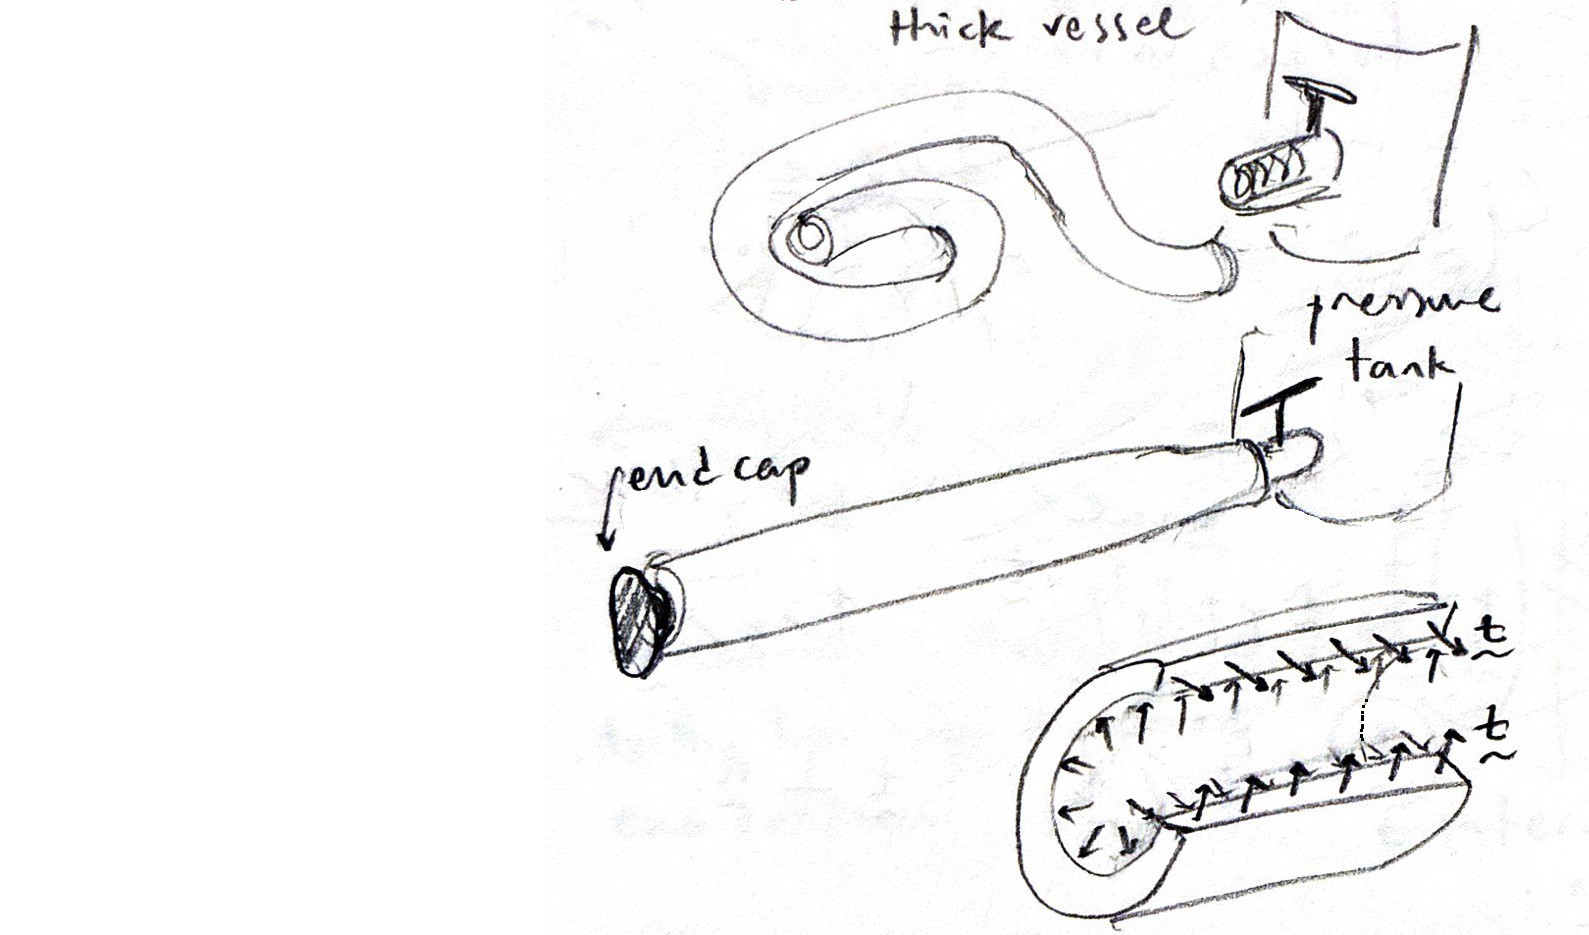
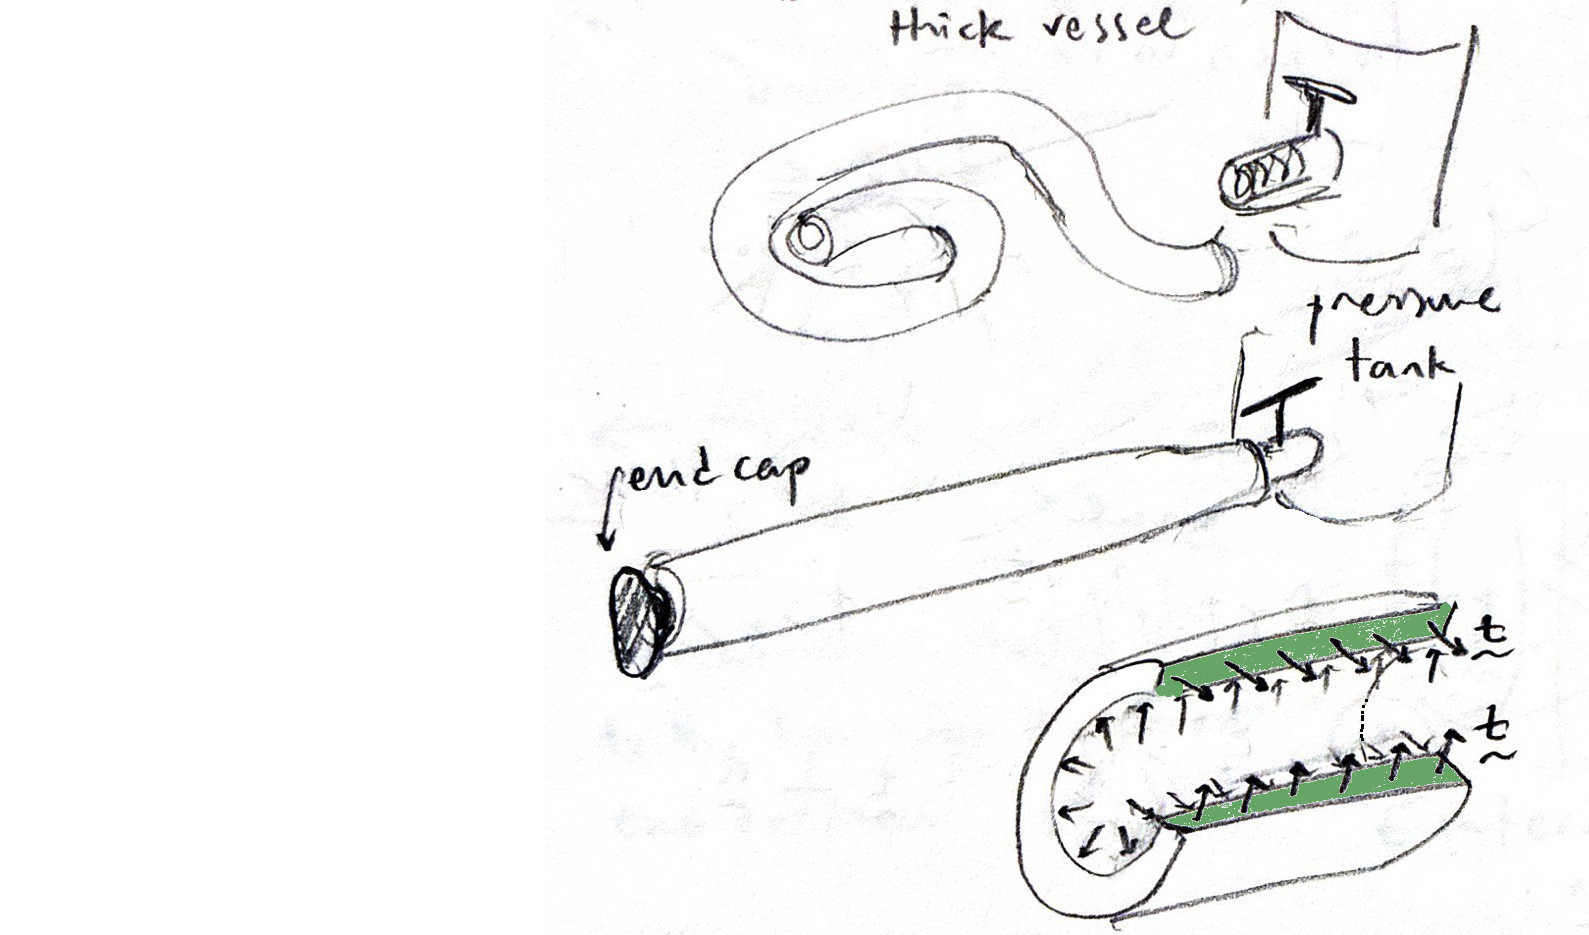
yet more minor changes, vessel figure coloring

Changed region(s): [[0.7093, 0.6513, 0.9251, 0.7444], [0.7709, 0.8064, 0.9251, 0.8684], [0.7401, 0.8684, 0.7709, 0.8995]]

diff --git a/lecture-slides/U3-mass-force.html b/lecture-slides/U3-mass-force.html
@@ -36,18 +36,18 @@
 <h2>Table of Contents</h2>
 <div id="text-table-of-contents" role="doc-toc">
 <ul>
-<li><a href="#/slide-orgd67deb8">(\(\S 3.1\)) Continuum Bodies (Session 9)</a></li>
-<li><a href="#/slide-org1eb7b07">(\(\S 3.3.2\)) Surface Forces (Session 10)</a></li>
-<li><a href="#/slide-org107cddd">(\(\S 3.3.3\)) The Stress Tensor (Session 11)</a></li>
+<li><a href="#/slide-org782a3f1">(\(\S 3.1\)) Continuum Bodies (Session 9)</a></li>
+<li><a href="#/slide-orgc6c1109">(\(\S 3.3.2\)) Surface Forces (Session 10)</a></li>
+<li><a href="#/slide-orgb2fa187">(\(\S 3.3.3\)) The Stress Tensor (Session 11)</a></li>
 </ul>
 </div>
 </div>
 </section>
 <section>
-<section id="slide-orgd67deb8">
-<h2 id="orgd67deb8">(\(\S 3.1\)) Continuum Bodies (Session 9)</h2>
+<section id="slide-org782a3f1">
+<h2 id="org782a3f1">(\(\S 3.1\)) Continuum Bodies (Session 9)</h2>
 
-<div id="org55f3f78" class="figure">
+<div id="org6f04b4e" class="figure">
 <p><img src="../images/Continuum_body.svg" alt="Continuum_body.svg" class="org-svg" width="600px" />
 </p>
 </div>
@@ -60,10 +60,10 @@
 
 </ul>
 </section>
-<section id="slide-org4b863e8">
-<h3 id="org4b863e8">(\(\S 3.2\)) Volume and Mass</h3>
+<section id="slide-orgc1a8f77">
+<h3 id="orgc1a8f77">(\(\S 3.2\)) Volume and Mass</h3>
 
-<div id="orgf2f88f6" class="figure">
+<div id="org1fcb51d" class="figure">
 <p><img src="../images/Continuum_body.svg" alt="Continuum_body.svg" class="org-svg" width="300px" />
 </p>
 </div>
@@ -74,10 +74,10 @@
 
 </ul>
 </section>
-<section id="slide-org0a34736">
-<h4 id="org0a34736">(\(\S 3.2.2\)) Centers of Volume and Mass</h4>
+<section id="slide-org4fb59d1">
+<h4 id="org4fb59d1">(\(\S 3.2.2\)) Centers of Volume and Mass</h4>
 
-<div id="orge66d44d" class="figure">
+<div id="orgbab71ad" class="figure">
 <p><img src="../images/Continuum_body.svg" alt="Continuum_body.svg" class="org-svg" width="300px" />
 </p>
 </div>
@@ -89,12 +89,12 @@
 </ul>
 
 </section>
-<section id="slide-org0a34736-split">
+<section id="slide-org4fb59d1-split">
 </section>
-<section id="slide-org92bfa82">
-<h3 id="org92bfa82">(\(\S 3.3\)) Body Forces</h3>
+<section id="slide-org1e52cee">
+<h3 id="org1e52cee">(\(\S 3.3\)) Body Forces</h3>
 
-<div id="orgeef5e41" class="figure">
+<div id="org7d3fd55" class="figure">
 <p><img src="../images/forces_in_nature.jpg" alt="forces_in_nature.jpg" width="1200px" />
 </p>
 </div>
@@ -103,10 +103,10 @@
 
 </ul>
 </section>
-<section id="slide-org712139e">
-<h4 id="org712139e">(\(\S 3.3.1\))  Body Forces and their Resultants (Integrals)</h4>
+<section id="slide-org283a7ef">
+<h4 id="org283a7ef">(\(\S 3.3.1\))  Body Forces and their Resultants (Integrals)</h4>
 
-<div id="orga0622ba" class="figure">
+<div id="org3596a2d" class="figure">
 <p><img src="../images/traction_bodyIntegrals.jpg" alt="traction_bodyIntegrals.jpg" width="360px" />
 </p>
 </div>
@@ -119,8 +119,8 @@
 
 </ul>
 </section>
-<section id="slide-orgde1c4db">
-<h3 id="orgde1c4db">Questions for next session</h3>
+<section id="slide-org874d02a">
+<h3 id="org874d02a">Questions for next session</h3>
 <p>
 Ask AI:
 </p>
@@ -129,8 +129,8 @@ Ask AI:
 
 </ul>
 </section>
-<section id="slide-org930e7d5">
-<h3 id="org930e7d5">Deliverables</h3>
+<section id="slide-org16bf7de">
+<h3 id="org16bf7de">Deliverables</h3>
 <p>
 Students should be able to:
 </p>
@@ -141,10 +141,10 @@ Students should be able to:
 </section>
 </section>
 <section>
-<section id="slide-org1eb7b07">
-<h2 id="org1eb7b07">(\(\S 3.3.2\)) Surface Forces (Session 10)</h2>
+<section id="slide-orgc6c1109">
+<h2 id="orgc6c1109">(\(\S 3.3.2\)) Surface Forces (Session 10)</h2>
 
-<div id="org94a7d52" class="figure">
+<div id="org7be915f" class="figure">
 <p><img src="../images/traction_glued.jpg" alt="traction_glued.jpg" width="1200 px" />
 </p>
 </div>
@@ -154,10 +154,10 @@ Students should be able to:
 
 </ul>
 </section>
-<section id="slide-org2b6c5ca">
-<h3 id="org2b6c5ca">Definitions</h3>
+<section id="slide-orgd10f0d1">
+<h3 id="orgd10f0d1">Definitions</h3>
 
-<div id="orgd680f19" class="figure">
+<div id="org74401c6" class="figure">
 <p><img src="../images/traction_definitions.jpg" alt="traction_definitions.jpg" width="1400 px" />
 </p>
 </div>
@@ -170,10 +170,10 @@ Students should be able to:
 
 </ul>
 </section>
-<section id="slide-org574a9bd">
-<h4 id="org574a9bd">Example 1: Balance of Tractions in an Axial Bar</h4>
+<section id="slide-orgb2b5480">
+<h4 id="orgb2b5480">Example 1: Balance of Tractions in an Axial Bar</h4>
 
-<div id="org76660e1" class="figure">
+<div id="org8383589" class="figure">
 <p><img src="../images/traction_axialbar.jpg" alt="traction_axialbar.jpg" width="1200 px" />
 </p>
 </div>
@@ -191,10 +191,10 @@ Other motivations:
 
 </ul>
 </section>
-<section id="slide-org978e314">
-<h3 id="org978e314">Resultant Force and Torque (Integrals)</h3>
+<section id="slide-orgd0f1278">
+<h3 id="orgd0f1278">Resultant Force and Torque (Integrals)</h3>
 
-<div id="org3ec3c62" class="figure">
+<div id="org414f9c7" class="figure">
 <p><img src="../images/traction_surfaceIntegrals.jpg" alt="traction_surfaceIntegrals.jpg" width="360 px" />
 </p>
 </div>
@@ -205,13 +205,13 @@ Other motivations:
 
 </ul>
 </section>
-<section id="slide-org8583f58">
-<h4 id="org8583f58">Why care about the torque?</h4>
+<section id="slide-orgac2b134">
+<h4 id="orgac2b134">Why care about the torque?</h4>
 <p>
 Consider equilibrium for the models below &#x2026;
 </p>
 
-<div id="org8b56452" class="figure">
+<div id="org0aed8d7" class="figure">
 <p><img src="../images/traction_torque.jpg" alt="traction_torque.jpg" width="1500px" />
 </p>
 </div>
@@ -225,10 +225,10 @@ Consider equilibrium for the models below &#x2026;
 
 </ul>
 </section>
-<section id="slide-org13f9d4c">
-<h4 id="org13f9d4c">Example 2: Balance of Tractions in a Pressurized Vessel</h4>
+<section id="slide-org97ab21d">
+<h4 id="org97ab21d">Example 2: Balance of Tractions in a Pressurized Vessel</h4>
 
-<div id="org85a2aa0" class="figure">
+<div id="orge6ac4dc" class="figure">
 <p><img src="../images/traction_vessel.jpg" alt="traction_vessel.jpg" width="1200px" />
 </p>
 </div>
@@ -247,13 +247,13 @@ Further questions:
 <li class="fragment appear">How is the internal pressure related with boundary tractions?  
 \(\bar{\boldsymbol{t}} = -p\,\boldsymbol{e}_r\)</li>
 
-<li class="fragment appear">Visualize the internal wall tensions that are expected in radial planes  
+<li class="fragment appear">Visualize the internal wall tensions that are expected in radial planes:  
 \(\boldsymbol{t} = t\,\boldsymbol{e}_\theta\)</li>
 
 </ul>
 </section>
-<section id="slide-orga0aa706">
-<h3 id="orga0aa706">Questions for next session</h3>
+<section id="slide-org7e35e7a">
+<h3 id="org7e35e7a">Questions for next session</h3>
 <p>
 Ask AI:
 </p>
@@ -262,8 +262,8 @@ Ask AI:
 
 </ul>
 </section>
-<section id="slide-orgfd8eb8d">
-<h3 id="orgfd8eb8d">Deliverables</h3>
+<section id="slide-org635701f">
+<h3 id="org635701f">Deliverables</h3>
 <p>
 Students should be able to:
 </p>
@@ -275,15 +275,15 @@ Students should be able to:
 </section>
 </section>
 <section>
-<section id="slide-org107cddd">
-<h2 id="org107cddd">(\(\S 3.3.3\)) The Stress Tensor (Session 11)</h2>
-<div class="outline-text-2" id="text-org107cddd">
+<section id="slide-orgb2fa187">
+<h2 id="orgb2fa187">(\(\S 3.3.3\)) The Stress Tensor (Session 11)</h2>
+<div class="outline-text-2" id="text-orgb2fa187">
 </div>
 </section>
-<section id="slide-orgf3b4fbc">
-<h3 id="orgf3b4fbc">Cauchy&rsquo;s Stress Tetrahedron</h3>
+<section id="slide-org50210f0">
+<h3 id="org50210f0">Cauchy&rsquo;s Stress Tetrahedron</h3>
 
-<div id="orgd661b84" class="figure">
+<div id="org5a4c565" class="figure">
 <p><img src="../images/stress_tetrahedron.png" alt="stress_tetrahedron.png" width="600 px" />
 </p>
 </div>
@@ -295,10 +295,10 @@ Students should be able to:
 
 </ul>
 </section>
-<section id="slide-orgeb4710a">
-<h3 id="orgeb4710a">Definition</h3>
+<section id="slide-orga86cd91">
+<h3 id="orga86cd91">Definition</h3>
 
-<div id="org6427492" class="figure">
+<div id="org318ca97" class="figure">
 <p><img src="../images/stress_tetrahedra.jpg" alt="stress_tetrahedra.jpg" width="1300 px" />
 </p>
 </div>
@@ -308,20 +308,20 @@ Students should be able to:
 
 </ul>
 </section>
-<section id="slide-orgb87699a">
-<h4 id="orgb87699a">Example 1: Balance of boundary tractions</h4>
+<section id="slide-org712e3c5">
+<h4 id="org712e3c5">Example 1: Balance of boundary tractions</h4>
 <p>
 Work under progress
 </p>
 </section>
-<section id="slide-orgc61e5cd">
-<h3 id="orgc61e5cd">(\(\S 3.4\)) Equilibrium Conditions</h3>
+<section id="slide-org598ebd9">
+<h3 id="org598ebd9">(\(\S 3.4\)) Equilibrium Conditions</h3>
 <p>
 Work under progress
 </p>
 </section>
-<section id="slide-org6b7b416">
-<h3 id="org6b7b416">Questions for next session</h3>
+<section id="slide-orgc86eff1">
+<h3 id="orgc86eff1">Questions for next session</h3>
 <p>
 Ask AI:
 </p>
@@ -330,8 +330,8 @@ Ask AI:
 
 </ul>
 </section>
-<section id="slide-orgbbdc3dd">
-<h3 id="orgbbdc3dd">Deliverables</h3>
+<section id="slide-orgdfdc58b">
+<h3 id="orgdfdc58b">Deliverables</h3>
 <p>
 Students should be able to:
 </p>
